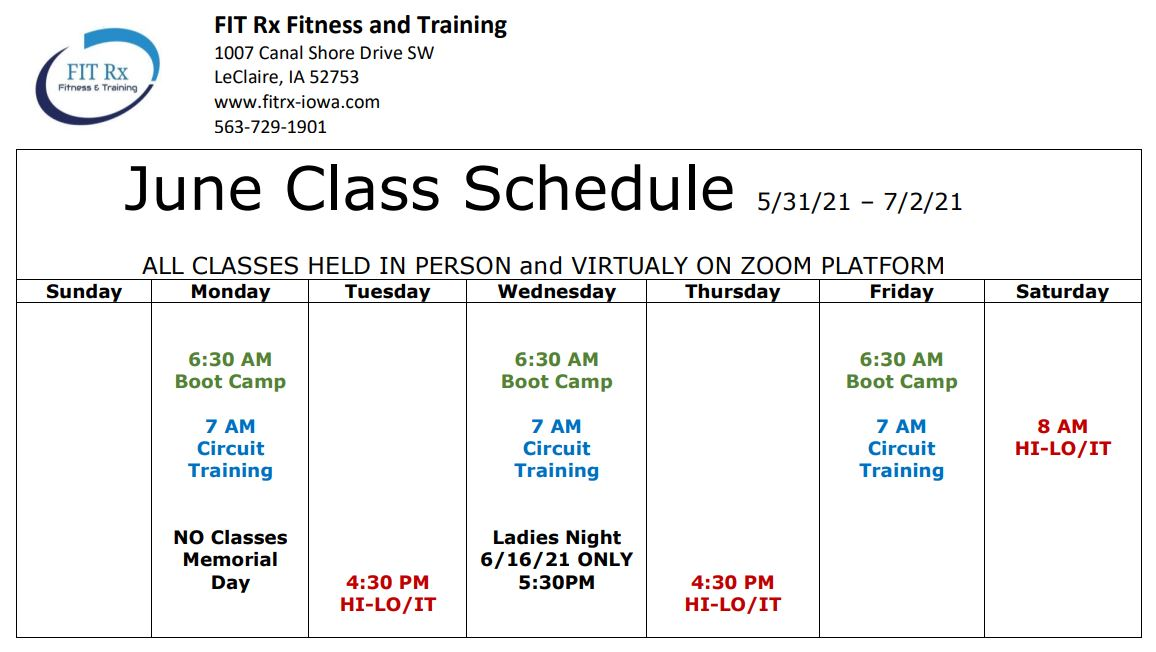
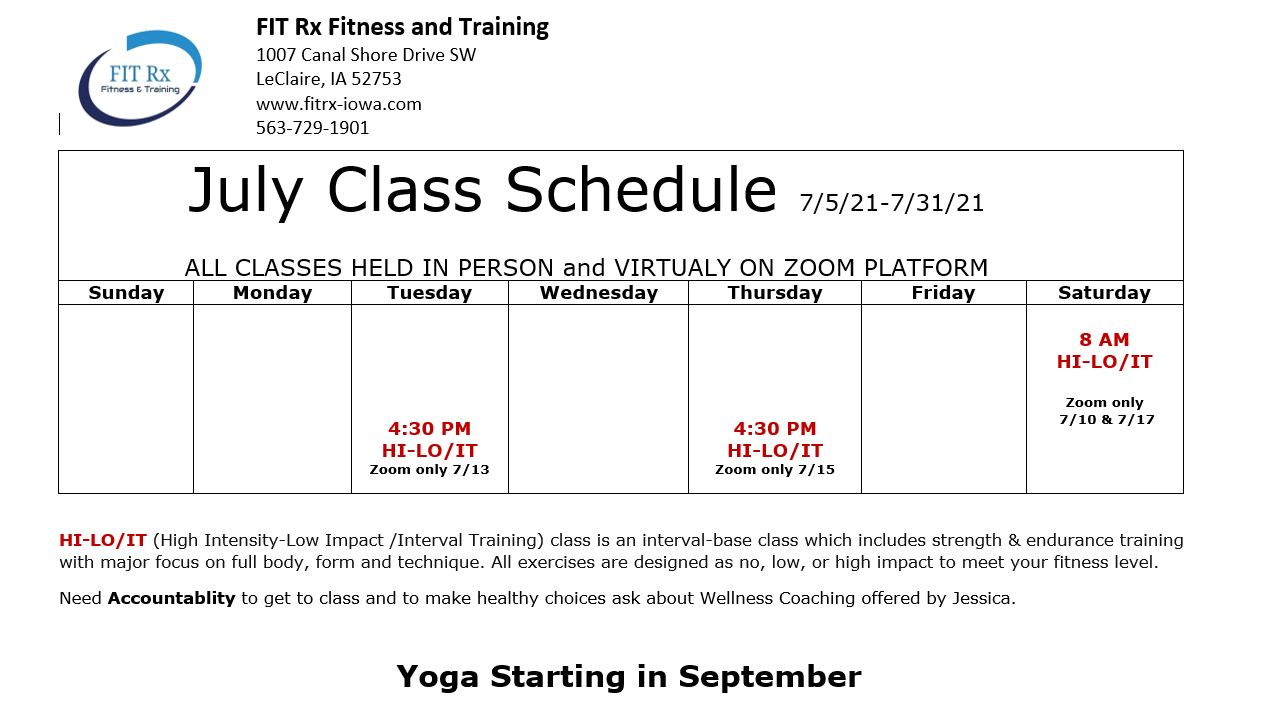
client updates for July

diff --git a/_includes/header.html b/_includes/header.html
@@ -17,9 +17,6 @@
         <a href="{{site.baseurl}}/trainers/" class="{% if page.title == "Meet the Trainers" %}active{% endif %}">Meet the Trainers</a>
       </li>
       <li class="nav-link">
-        <a href="{{site.baseurl}}/recipes/" class="{% if page.title == "Recipes" %}active{% endif %}">Recipes</a>
-      </li>
-      <li class="nav-link">
         <a href="{{site.baseurl}}/contact/" class="{% if page.title == "Contact" %}active{% endif %}">Contact</a>
       </li>
     </ul>

diff --git a/_includes/footer.html b/_includes/footer.html
@@ -22,9 +22,6 @@
         <a href="{{ site.baseurl }}/contact/">Contact & Hours</a>
       </li>
       <li>
-        <a href="{{ site.baseurl }}/recipes/">Recipes</a>
-      </li>
-      <li>
         <a href="{{ site.baseurl }}/terms/">Terms & Conditions</a>
       </li>
     </ul>

diff --git a/_events/free-community-walk.md b/_events/free-community-walk.md
@@ -1,10 +1,10 @@
 ---
 title: "Free Community Walk"
-time: "Sunday, May 16, 2021"
+time: "TBD Fall 2021"
 location: FIT Rx
 ---
 ![Riverfront path behind FIT Rx](/assets/images/classes-scenery.jpg)
 
-Next Walk - 9:00a - 10:00p on Sunday, May 16, 2021
+Next Walk - TBD Fall 2021
 
 FIT Rx will open its doors to the community, offering water outside for your walk!  To keep our distance we will only gather outside and we ask that you respect others' space.  Runners welcome!   Dolly the Gym Dog will be there!  Bring your dogs and families!  Doggie bags are provided to keep our neighborhood clean!

diff --git a/_events/girls-night-out.md b/_events/girls-night-out.md
@@ -1,6 +1,6 @@
 ---
 title: "Ladies Night"
-time: "May 19, 2021 at 5:30pm"
+time: "August 11, 2021 at 5:30pm"
 location: FIT Rx
 ---
 ![Ladies Night flyer](/assets/images/events/ladiesnight.jpg)

diff --git a/_virtual/hiit-virtual.md b/_virtual/hiit-virtual.md
@@ -1,6 +1,6 @@
 ---
 title: "HIIT"
-days: "Tues & Thurs 4:30p, Wed 7a"
+days: "Tues & Thurs 4:30p"
 time: "45 min"
 location: Zoom app
 ---

diff --git a/_inperson/hiit-inperson.md b/_inperson/hiit-inperson.md
@@ -1,6 +1,6 @@
 ---
 title: "HIIT"
-days: "Tues & Thurs 4:30p, Wed 7a"
+days: "Tues & Thurs 4:30p"
 time: "45 min"
 location: FIT Rx
 ---
